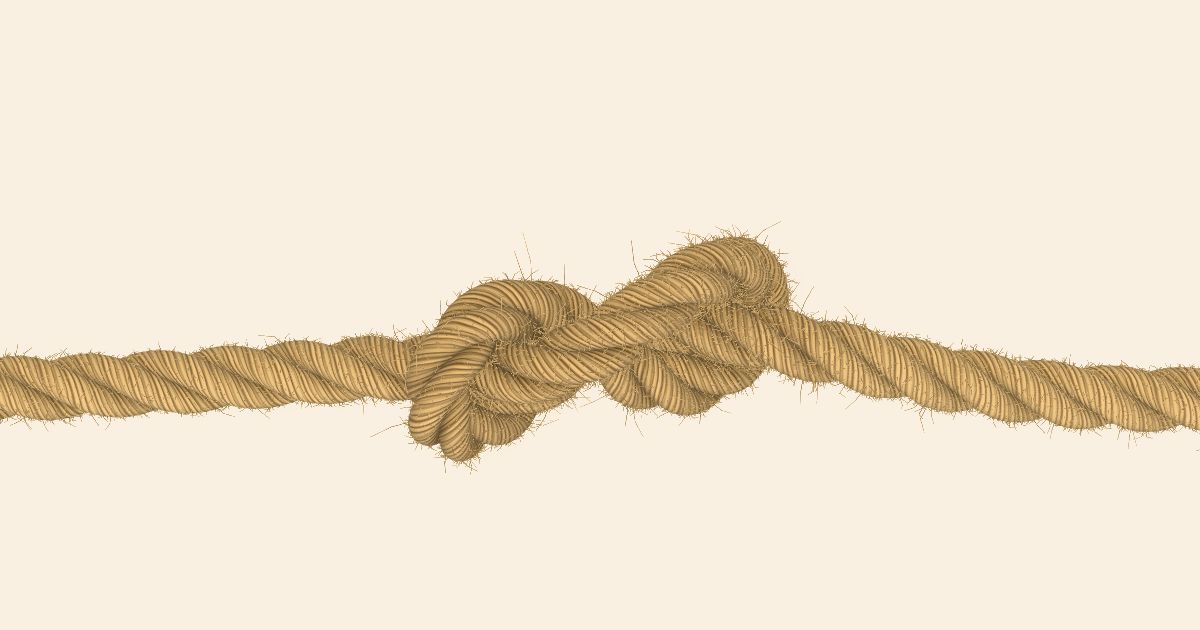
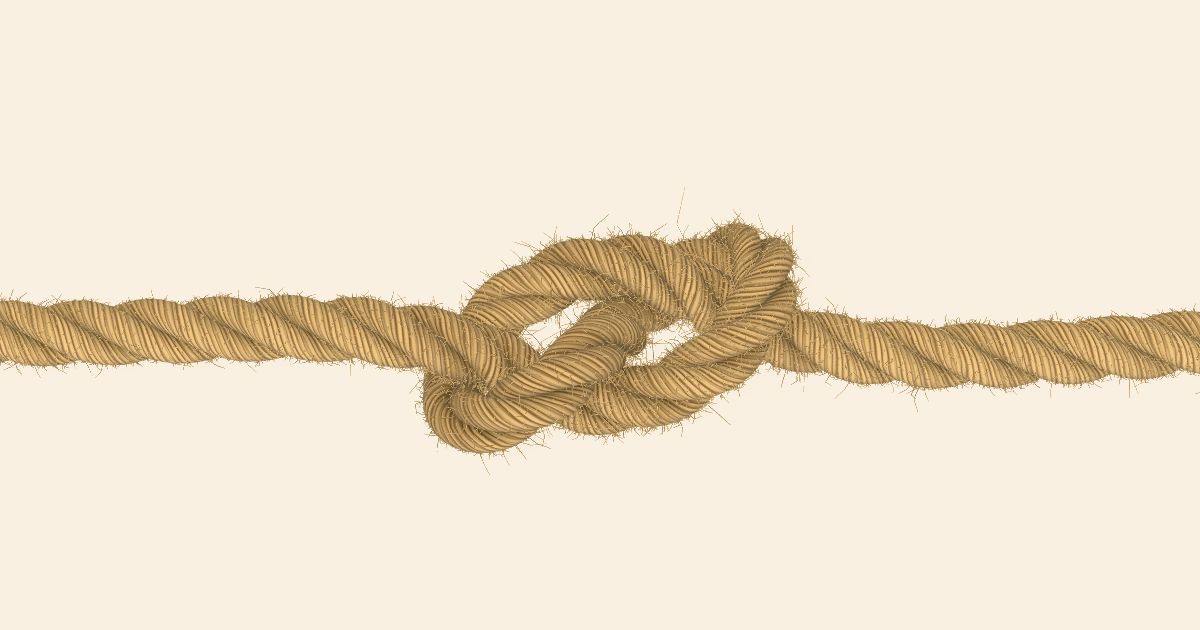
Lay the figure-eight flat after tightening
Pulled tight, the figure-eight stood up on its edge and was seen from the
side. Now the ends ease off before letting go, and a hand presses the knot's
top down and toward the camera, so it lies nearly flat and shows the 8, all
within the tightening step. Updates its bake fingerprint, share picture and
stargazer picture.

Changed region(s): [[0.0, 0.3317, 1.0, 0.754]]

diff --git a/src/engine/knots/figure-eight.ts b/src/engine/knots/figure-eight.ts
@@ -26,7 +26,7 @@ export const figureEight: KnotDef = {
       ],
     },
   ],
-  duration: 15.8,
+  duration: 17.2,
   steps: [
     { t: 0, title: "Lay the rope out straight" },
     { t: 0.4, title: "Fold the working end back into an S" },
@@ -34,7 +34,7 @@ export const figureEight: KnotDef = {
     { t: 7, title: "Pass the tip under the rope, up to the top beside the loop" },
     { t: 9.8, title: "Tuck the tip down through the loop" },
     { t: 13.2, title: "Pull both ends to tighten" },
-    { t: 15.2, title: "Done: a figure-eight knot" },
+    { t: 16.6, title: "Done: a figure-eight knot" },
   ],
   guides: [
     // Anchor and eye pins hold until the pull has taken over, or the standing part gets dragged.
@@ -177,14 +177,29 @@ export const figureEight: KnotDef = {
       grab: 13.2,
       compliance: 0.001,
       force: 250,
-      path: [{ t: 14.4, p: [-1.09, 0.04, 0] }, { t: 15.4 }],
+      path: [{ t: 14.4, p: [-1.09, R, 0] }, { t: 15.2 }, { t: 15.8, p: [-1.07, R, 0] }, { t: 16 }],
     },
     {
       at: 1,
       grab: 13.2,
       compliance: 0.001,
       force: 250,
-      path: [{ t: 14.4, p: [0.56, 0.04, 0] }, { t: 15.4 }],
+      path: [{ t: 14.4, p: [0.56, R, 0] }, { t: 15.2 }, { t: 15.8, p: [0.54, R, 0] }, { t: 16 }],
+    },
+
+    // Pulled tight, the knot stands up on its edge. While the ends ease off (above), a hand rolls its
+    // top toward the camera round the knot's own middle, so it lies flat and shows the 8 without
+    // sliding off the rope's line.
+    {
+      at: 0.646,
+      grab: 15.2,
+      force: 40,
+      path: [
+        { t: 15.8, p: [0.21, 0.05, 0] },
+        { t: 16.2, p: [0.21, 0.033, 0.012] },
+        { t: 16.5, p: [0.21, 0.024, 0.02] },
+        { t: 16.8 },
+      ],
     },
   ],
 };

diff --git a/src/engine/sim/bake.fingerprint.test.ts b/src/engine/sim/bake.fingerprint.test.ts
@@ -6,7 +6,7 @@ import { bake } from "./bake";
 // to a knot or to the physics updates its hash here (the failure message prints the new one).
 const FINGERPRINTS: Record<string, string> = {
   overhand: "6fa9fda654de",
-  "figure-eight": "9b04923f61e8",
+  "figure-eight": "815fa7a4f198",
   bowline: "edc1585db70c",
   "clove-hitch": "e47109ab703c",
   zeppelin: "1d60633c1b56",
